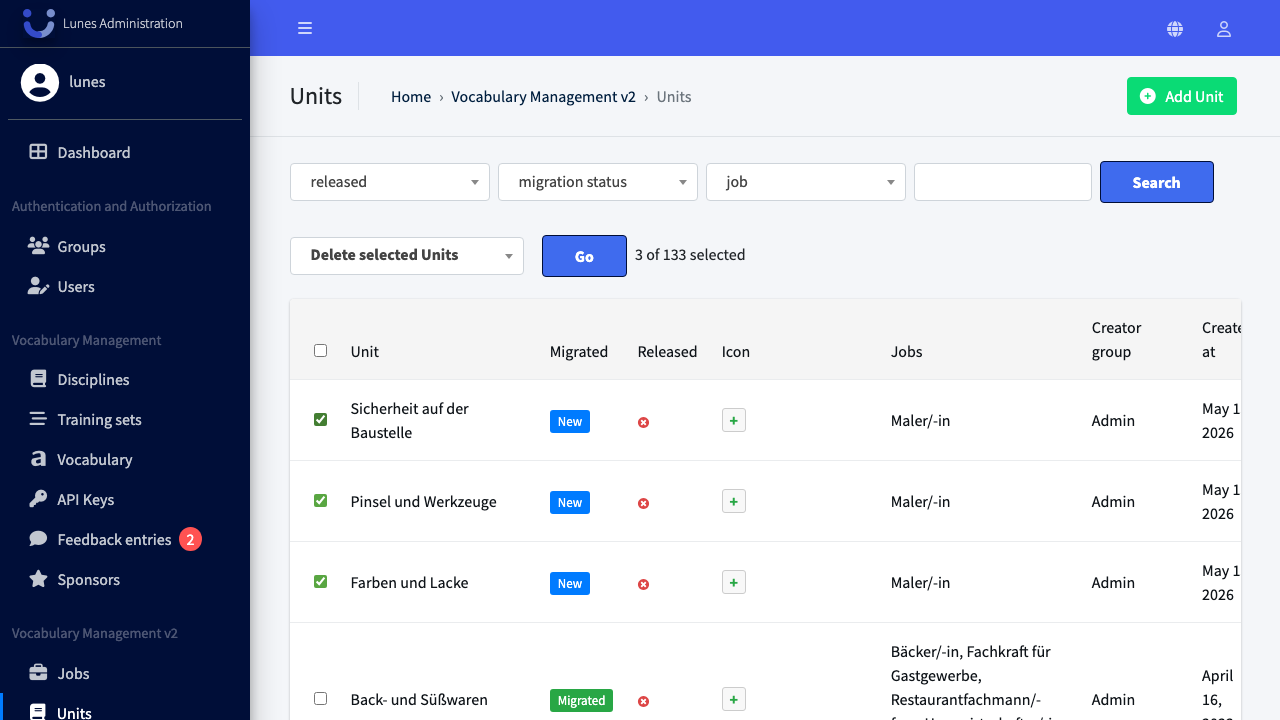
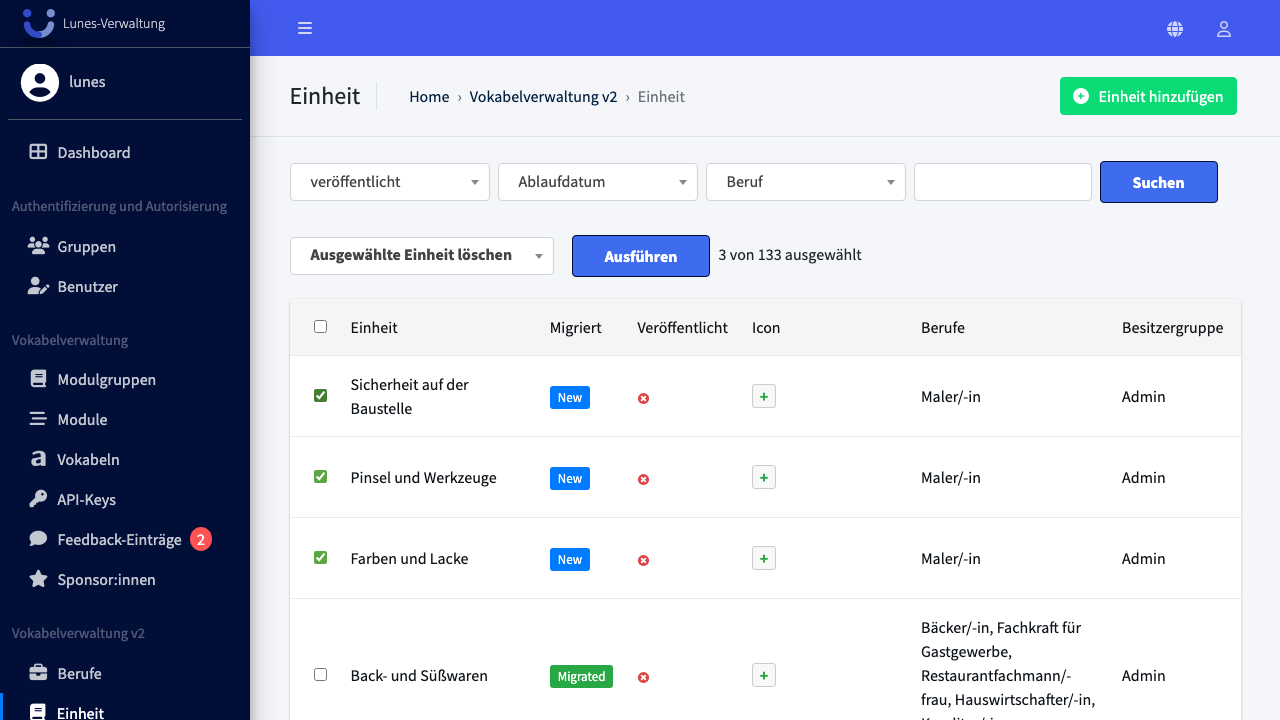
746: add test_bulk_delete_units.py and docs

diff --git a/e2e-tests/test_bulk_delete_units.py b/e2e-tests/test_bulk_delete_units.py
@@ -1,0 +1,86 @@
+"""
+E2E test: Mehrere Einheiten löschen — generates user_docs/bulk_delete_units.md
+"""
+
+from typing import Callable
+
+import pytest
+from playwright.sync_api import Page, expect
+
+JOB_NAME = "Maler/-in"
+UNIT_NAMES = [
+    "Farben und Lacke",
+    "Pinsel und Werkzeuge",
+    "Sicherheit auf der Baustelle",
+]
+
+
[email redacted].e2e
[email redacted]_group("vocabulary_management")
+def test_bulk_delete_units(
+    page: Page,
+    document,
+    base_url: str,
+    login,
+    add_job: Callable,
+    add_unit: Callable,
+    delete_job: Callable,
+) -> None:
+    add_job(JOB_NAME)
+    for unit_name in UNIT_NAMES:
+        add_unit(unit_name, f"Vokabeln zu {unit_name}", JOB_NAME)
+
+    with document.step(
+        "Einheit-Bereich öffnen",
+        description="Klicken Sie im linken Navigationsmenü auf **Einheit**.",
+    ):
+        page.goto(f"{base_url}/de/admin/cmsv2/unit/?all=")
+        expect(page).to_have_url(f"{base_url}/de/admin/cmsv2/unit/?all=")
+
+    for unit_name in UNIT_NAMES:
+        page.locator(
+            "tr", has=page.locator("th.field-title a", has_text=unit_name)
+        ).locator("input[type=checkbox]").check()
+    page.locator(
+        "th.field-title a", has_text=UNIT_NAMES[0]
+    ).scroll_into_view_if_needed()
+    with document.step(
+        "Einheiten auswählen",
+        description='Aktivieren Sie die Checkboxen neben den Einheiten **„Farben und Lacke"**, **„Pinsel und Werkzeuge"** und **„Sicherheit auf der Baustelle"**.',
+    ):
+        pass
+
+    page.locator("button[name=index][value='0']").scroll_into_view_if_needed()
+    page.evaluate("""
+        const select = document.querySelector('select[name=action]');
+        select.value = 'delete_selected';
+        $(select).trigger('change');
+    """)
+    with document.step(
+        'Aktion "Ausgewählte Einheit löschen" auswählen und ausführen',
+        description='Wählen Sie im Aktions-Dropdown **"Ausgewählte Einheit löschen"** aus und klicken Sie auf **„Go"**.',
+    ):
+        page.click("button[name=index][value='0']")
+
+    with document.step(
+        "Löschung bestätigen",
+        description='Bestätigen Sie die Löschung mit einem Klick auf **„Ja, ich bin sicher"**.',
+    ):
+        expect(
+            page.locator("tr", has=page.get_by_text("Einheit", exact=True))
+            .locator("td")
+            .nth(1)
+        ).to_have_text(str(len(UNIT_NAMES)))
+        page.locator("input[type=submit]").click()
+        expect(page).to_have_url(f"{base_url}/de/admin/cmsv2/unit/?all=")
+
+    with document.step(
+        "Erfolg — Einheiten wurden gelöscht",
+        description="Alle drei Einheiten sind nicht mehr in der Übersicht vorhanden.",
+    ):
+        for unit_name in UNIT_NAMES:
+            expect(page.locator("th.field-title a", has_text=unit_name)).to_have_count(
+                0
+            )
+
+    delete_job(JOB_NAME)

diff --git a/user_docs/bulk_delete_units.md b/user_docs/bulk_delete_units.md
@@ -1,0 +1,32 @@
+# Bulk Delete Units
+
+## Schritt 1: Einheit-Bereich öffnen
+
+Klicken Sie im linken Navigationsmenü auf **Einheit**.
+
+![Einheit-Bereich öffnen](screenshots/bulk_delete_units_step01.png)
+
+## Schritt 2: Einheiten auswählen
+
+Aktivieren Sie die Checkboxen neben den Einheiten **„Farben und Lacke"**, **„Pinsel und Werkzeuge"** und **„Sicherheit auf der Baustelle"**.
+
+![Einheiten auswählen](screenshots/bulk_delete_units_step02.png)
+
+## Schritt 3: Aktion "Ausgewählte Einheit löschen" auswählen und ausführen
+
+Wählen Sie im Aktions-Dropdown **"Ausgewählte Einheit löschen"** aus und klicken Sie auf **„Go"**.
+
+![Aktion "Ausgewählte Einheit löschen" auswählen und ausführen](screenshots/bulk_delete_units_step03.png)
+
+## Schritt 4: Löschung bestätigen
+
+Bestätigen Sie die Löschung mit einem Klick auf **„Ja, ich bin sicher"**.
+
+![Löschung bestätigen](screenshots/bulk_delete_units_step04.png)
+
+## Schritt 5: Erfolg — Einheiten wurden gelöscht
+
+Alle drei Einheiten sind nicht mehr in der Übersicht vorhanden.
+
+![Erfolg — Einheiten wurden gelöscht](screenshots/bulk_delete_units_step05.png)
+